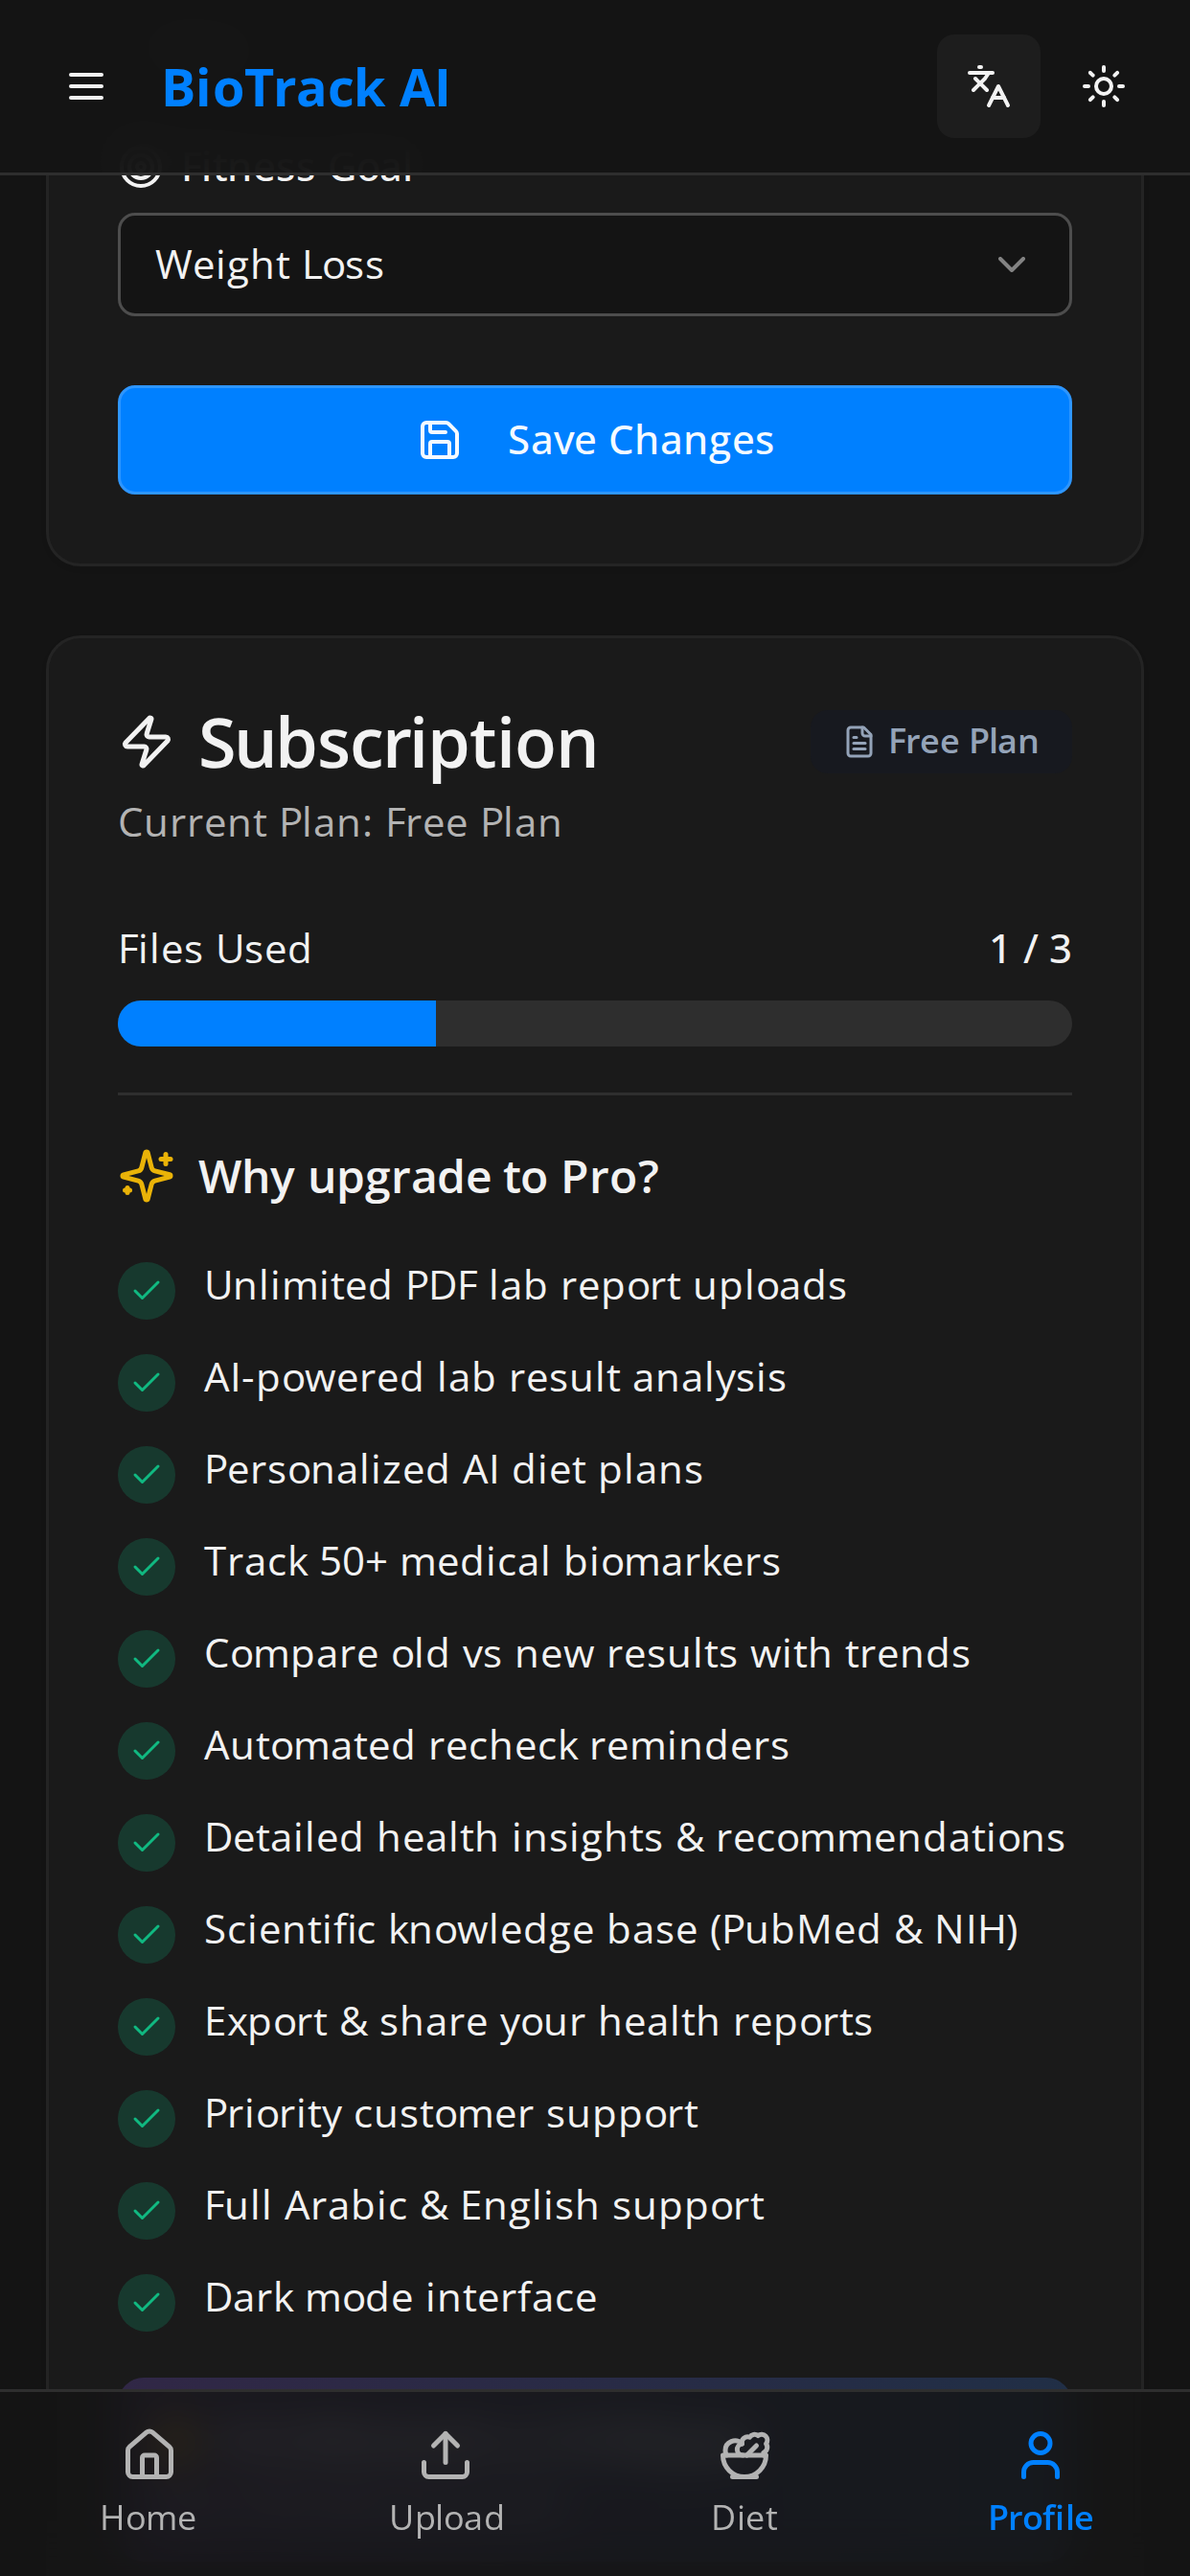
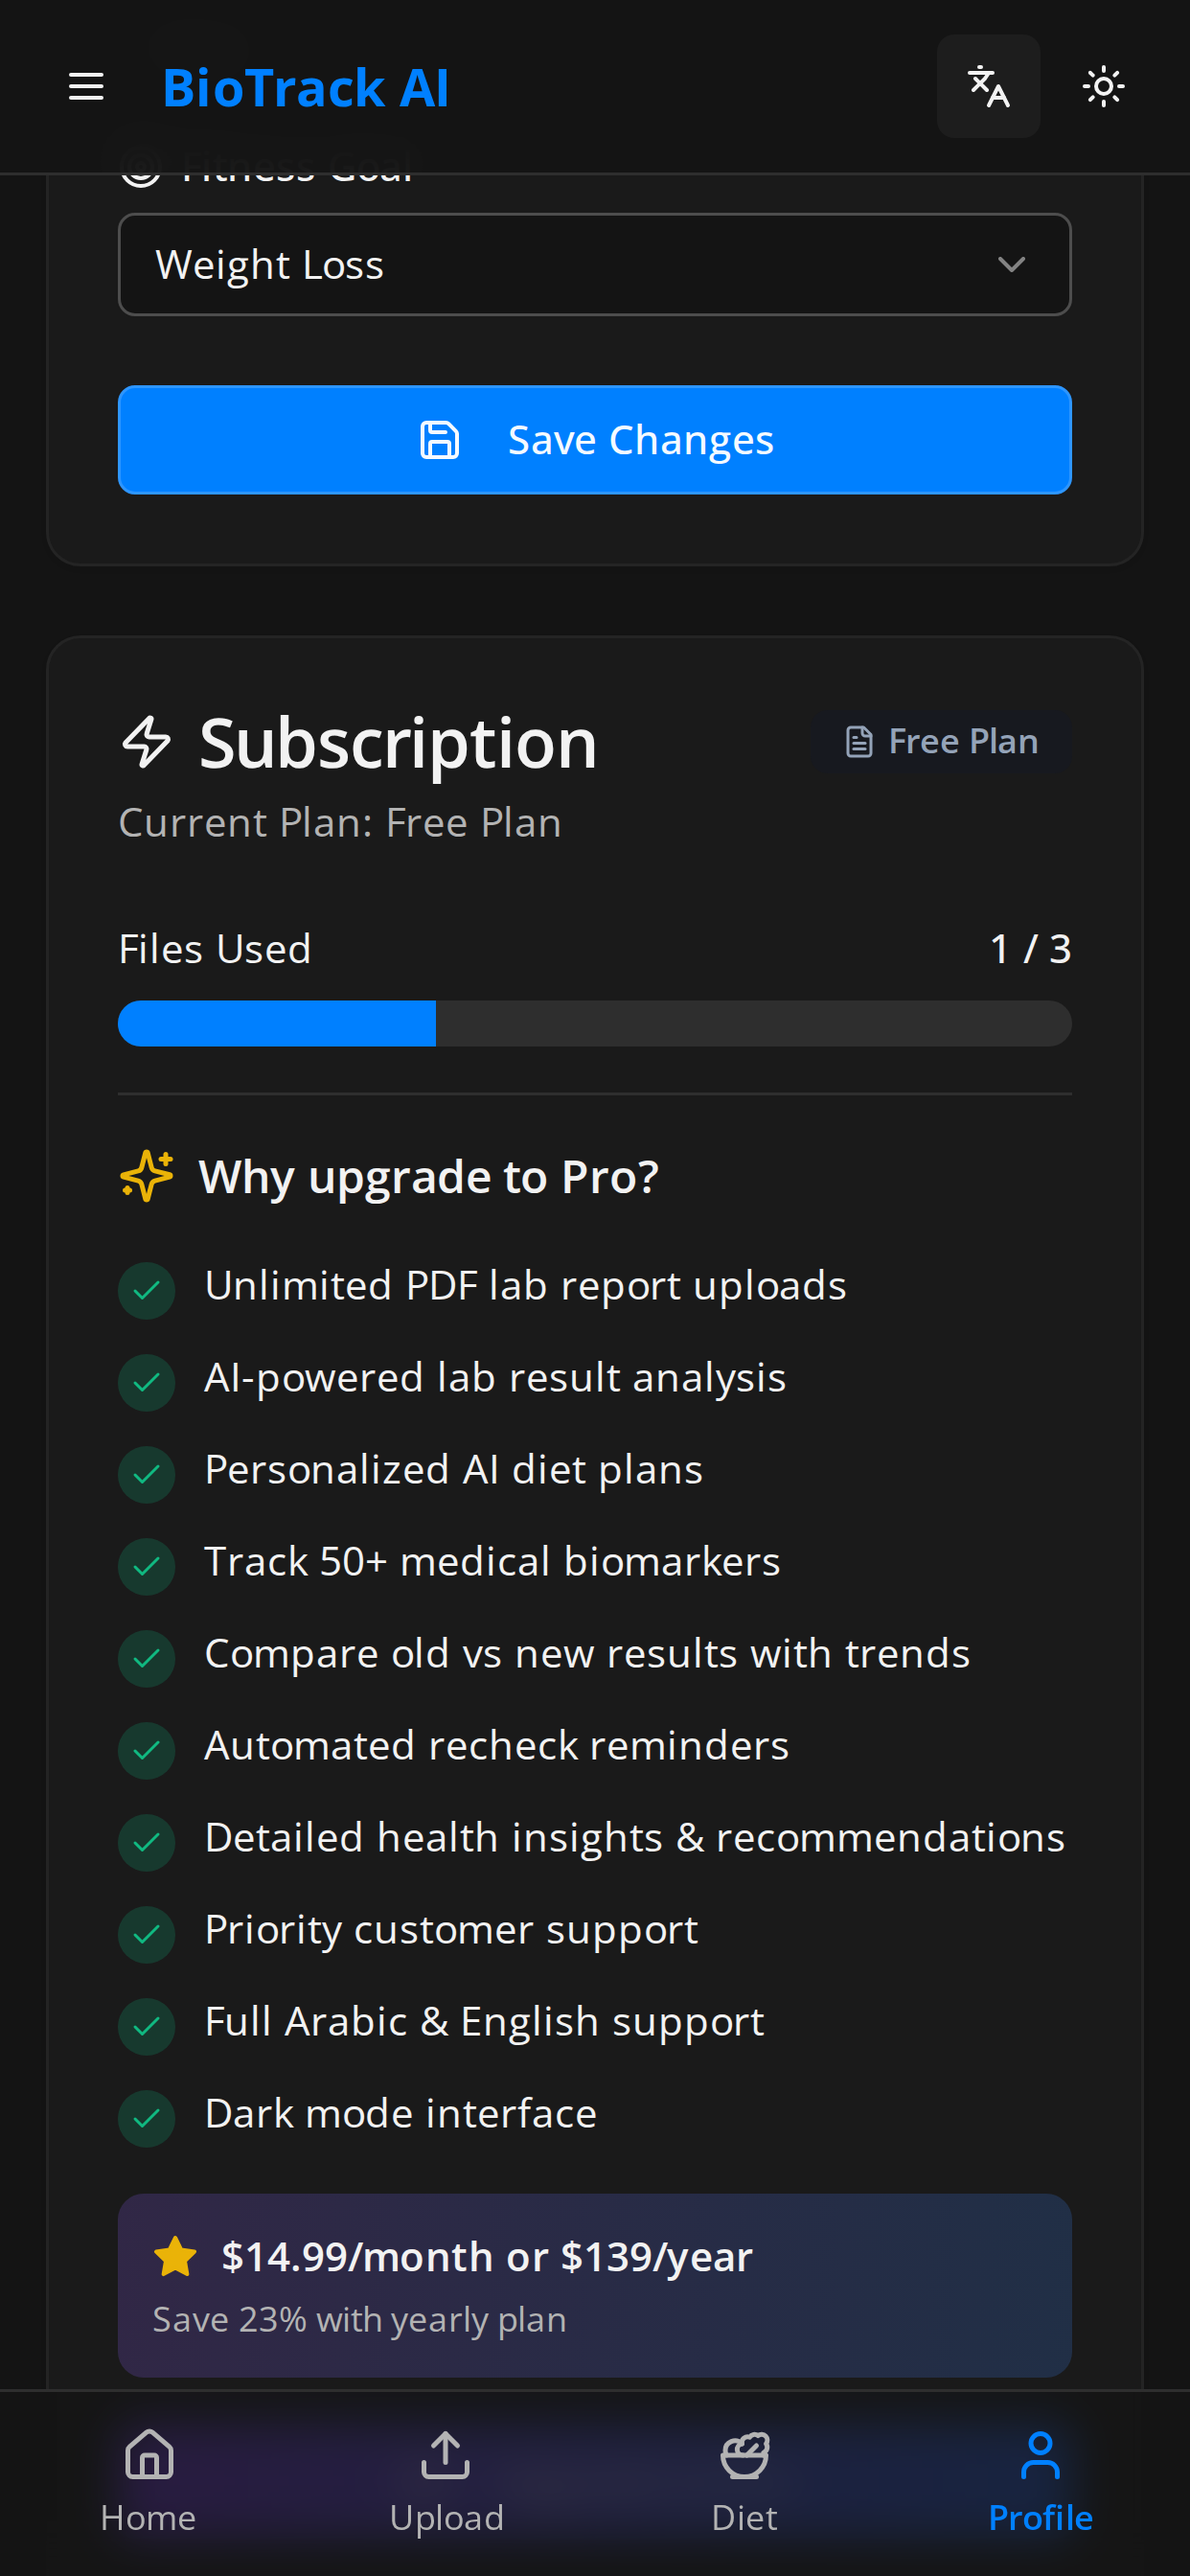
Remove export and scientific knowledge base features from Pro plan
Update SubscriptionCard component by removing `proFeature8` and `proFeature9` keys, and adjust `proFeature10` to `proFeature8` in `SubscriptionCard.tsx` and update translations in `lib/i18n.ts`.

Replit-Commit-Author: Agent
Replit-Commit-Session-Id: ee72bbb4-16e2-4ae5-b62d-89fadd91fcbc
Replit-Commit-Checkpoint-Type: full_checkpoint
Replit-Commit-Event-Id: 702a9387-6457-4ccf-9722-a3f90a6f528e
Replit-Commit-Screenshot-Url: https://storage.googleapis.com/screenshot-production-us-central1/be0178d2-7d2b-4781-983e-ac96f61e9108/ee72bbb4-16e2-4ae5-b62d-89fadd91fcbc/2T1yxjK
Replit-Helium-Checkpoint-Created: true

Changed region(s): [[0.0918, 0.7188, 0.9179, 1.0], [0.6425, 0.7812, 0.7343, 0.8125], [0.6731, 0.7188, 0.7037, 0.75]]

diff --git a/client/src/lib/i18n.ts b/client/src/lib/i18n.ts
@@ -105,11 +105,9 @@ const resources = {
       proFeature5: "Compare old vs new results with trends",
       proFeature6: "Automated recheck reminders",
       proFeature7: "Detailed health insights & recommendations",
-      proFeature8: "Scientific knowledge base (PubMed & NIH)",
-      proFeature9: "Export & share your health reports",
-      proFeature10: "Priority customer support",
-      proFeature11: "Full Arabic & English support",
-      proFeature12: "Dark mode interface",
+      proFeature8: "Priority customer support",
+      proFeature9: "Full Arabic & English support",
+      proFeature10: "Dark mode interface",
       whyUpgrade: "Why upgrade to Pro?",
       
       // Reminders
@@ -421,11 +419,9 @@ const resources = {
       proFeature5: "مقارنة النتائج القديمة بالجديدة مع الاتجاهات",
       proFeature6: "تذكيرات إعادة الفحص التلقائية",
       proFeature7: "رؤى صحية مفصلة وتوصيات",
-      proFeature8: "قاعدة معرفية علمية (PubMed و NIH)",
-      proFeature9: "تصدير ومشاركة تقاريرك الصحية",
-      proFeature10: "دعم عملاء ذو أولوية",
-      proFeature11: "دعم كامل للعربية والإنجليزية",
-      proFeature12: "واجهة الوضع الداكن",
+      proFeature8: "دعم عملاء ذو أولوية",
+      proFeature9: "دعم كامل للعربية والإنجليزية",
+      proFeature10: "واجهة الوضع الداكن",
       whyUpgrade: "لماذا الترقية إلى Pro؟",
       
       // Reminders

diff --git a/client/src/components/SubscriptionCard.tsx b/client/src/components/SubscriptionCard.tsx
@@ -23,8 +23,6 @@ const proFeatureKeys = [
   "proFeature8",
   "proFeature9",
   "proFeature10",
-  "proFeature11",
-  "proFeature12",
 ];
 
 const planConfig = {
